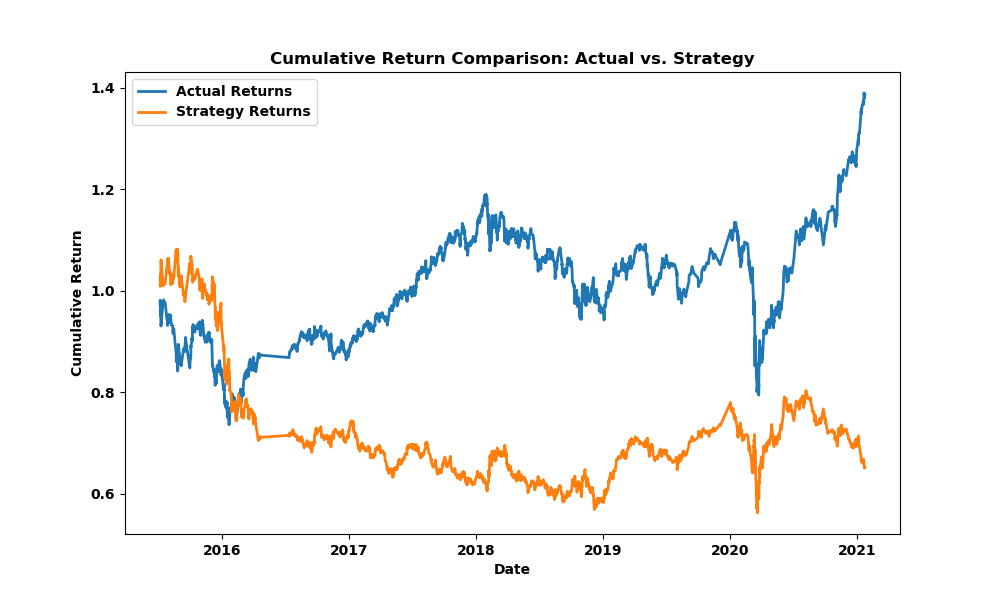
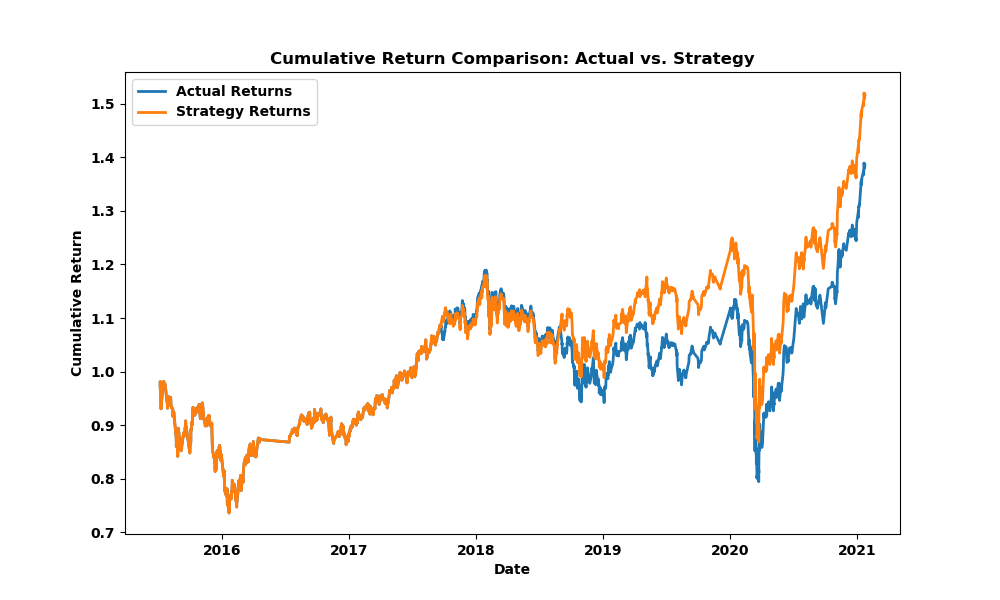
progress

diff --git a/README.md b/README.md
@@ -4,7 +4,9 @@ UC Berkeley Fintech: Develop a machine learning trading algorithm.
 
 ## What impact resulted from increasing or decreasing the training window?
 
+Decreasing the training window from 3 to 1 month actually made the strategy returns line graph higher then the actual returns. The precision and recall for the sell indicator -1 decreased from .43 precision to .37 and recall of .04 to .03 from 3 months to 1 month. So we lose a small amount of precision and recall with the dateoffset(month=1) from dateoffset(month=3). Everything else including accuracy remainded largely the same. 
 
+Increasing the training window from 3 to 6 months saw shows a small change in precision and recall of -1 with an increase from .43 to .44 precision and a decrease from .04 to .02 recall. The 1 row precision stayed the same however the recall for 1 increased from .96 to .98 and the accuracy increased from .55 to .56. The graph changed a bit from 2019 to 2021 for the 6 month compared to 3 month with the 6 month showing a bit more volatility with lower lows and higher highs than the 3 month window. 
 
 
 
